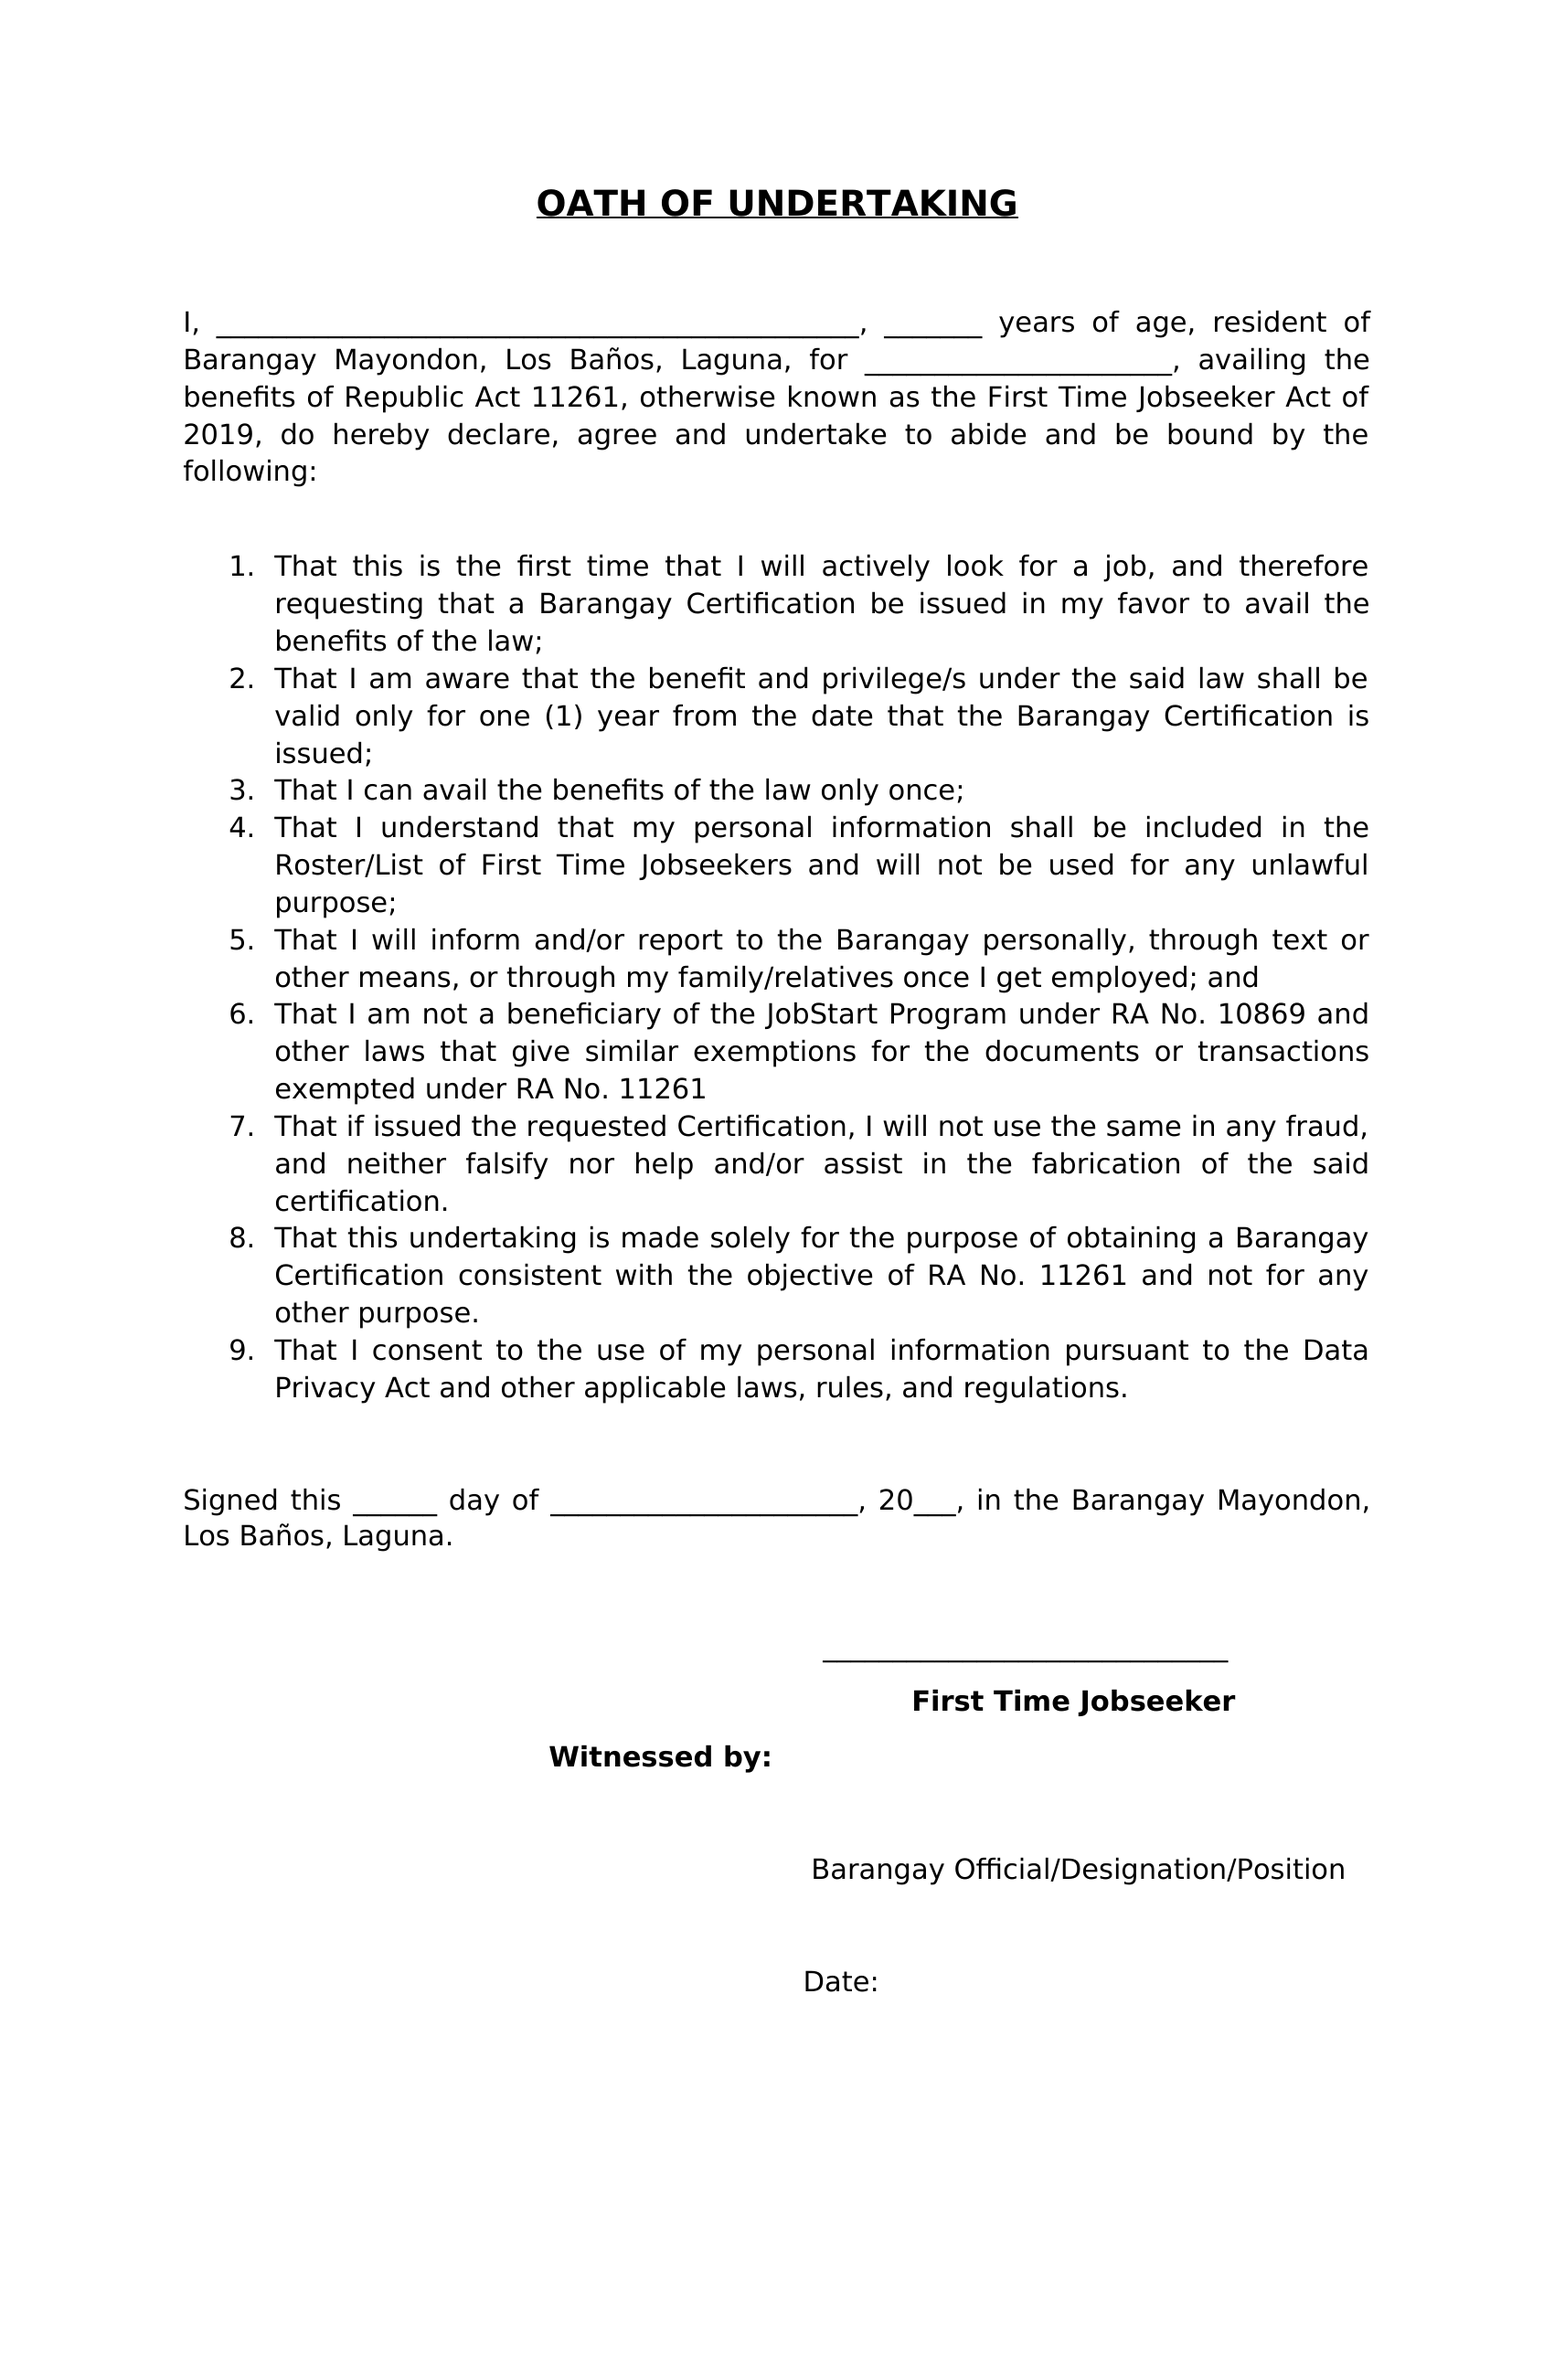
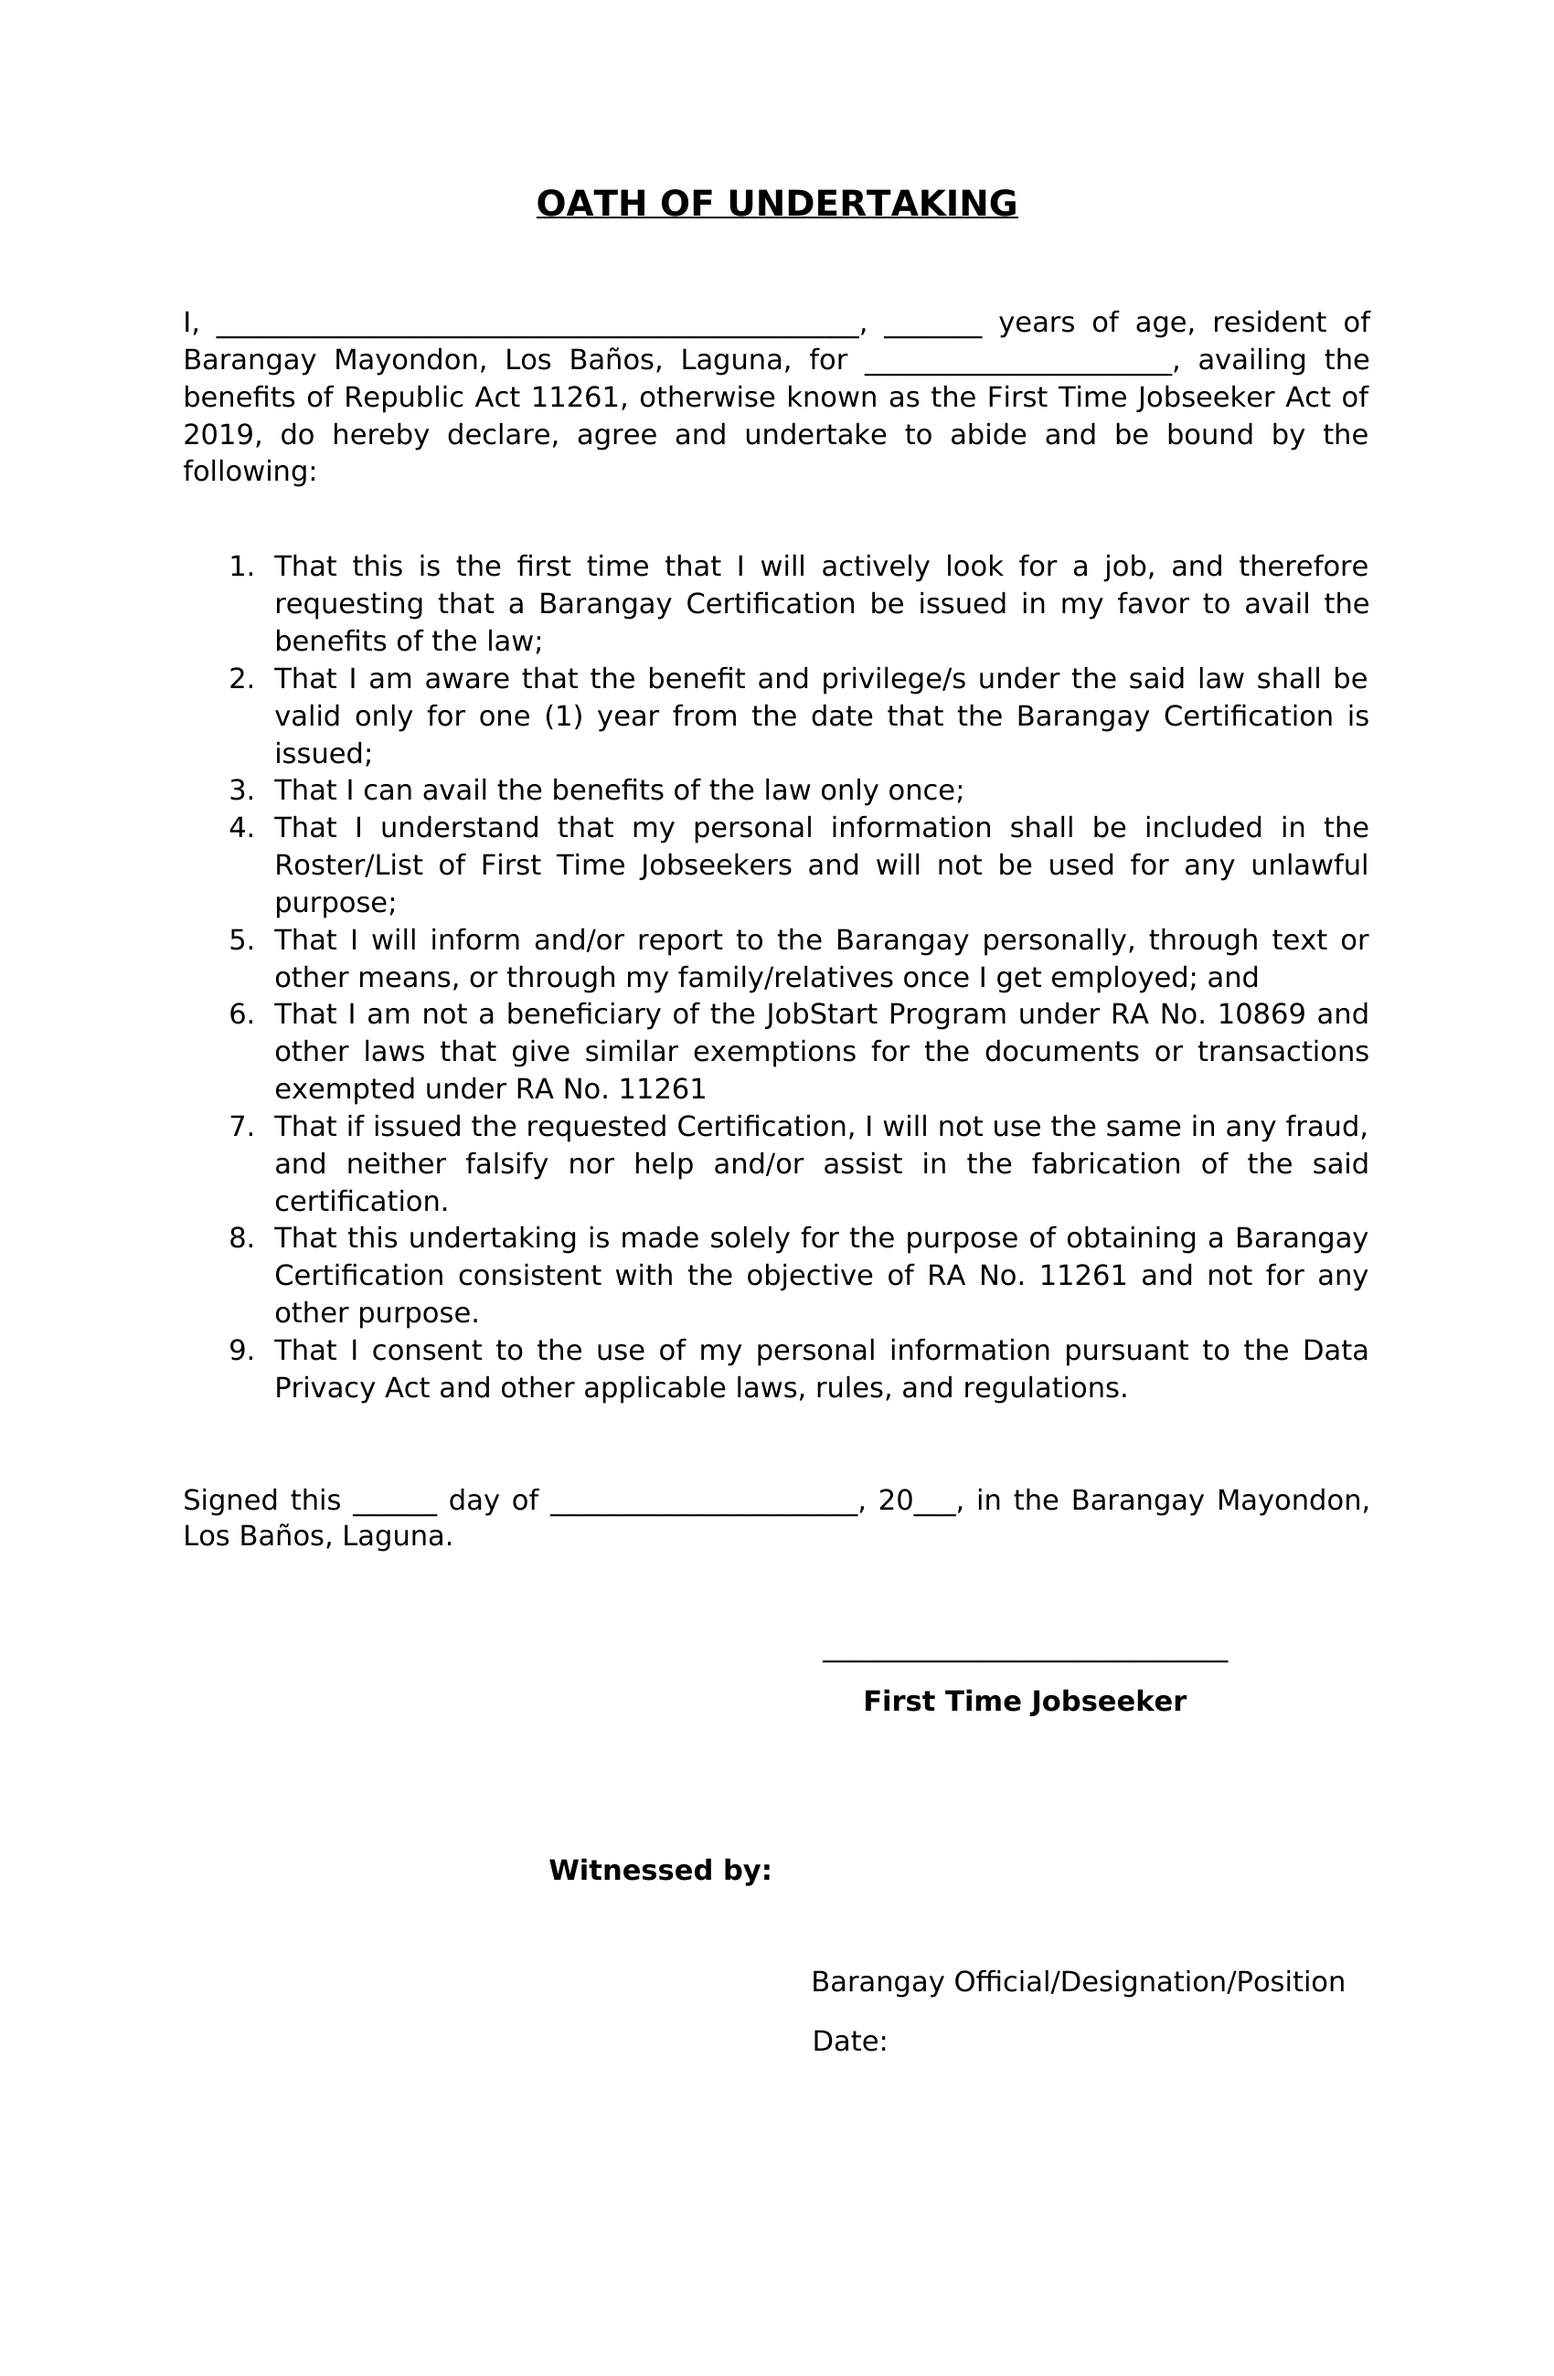
fix(print): Jobseeker Oath Date and witness designation in regular weight

diff --git a/frontend/src/lib/print/templates.ts b/frontend/src/lib/print/templates.ts
@@ -18,7 +18,7 @@ export type PrintFieldBox = {
   align?: "left" | "center"
   size?: number // font size in pt, default 11
   page?: number // 0-based page of a multi-page template, default 0
-  font?: "value" | "label" | "note" | "form" // "form" = Verdana Bold (the First-Time Jobseeker Word file is all Verdana); "label" = Arial Narrow bold; "note" = Arial regular 10 pt (the Addressed-to line); default "value" (Cambria Bold)
+  font?: "value" | "label" | "note" | "form" | "formRegular" // "formRegular" = Verdana regular, for the Jobseeker Oath witness designation and Date (patch 349); "form" = Verdana Bold (the First-Time Jobseeker Word file is all Verdana); "label" = Arial Narrow bold; "note" = Arial regular 10 pt (the Addressed-to line); default "value" (Cambria Bold)
   color?: string // text colour, default black (the loan note of the Clearance is red in the xls)
   prefix?: string // words printed before a non-empty value, for a row the barangay's form leaves unlabelled
 }
@@ -355,7 +355,7 @@ export const printTemplates: Record<PrintTemplateId, PrintTemplate> = {
       {
         key: "witnessName",
         x: 424.6,
-        y: 687.3,
+        y: 732,
         w: 206,
         align: "center",
         size: 11,
@@ -365,13 +365,14 @@ export const printTemplates: Record<PrintTemplateId, PrintTemplate> = {
       {
         key: "witnessDesignation",
         x: 424.6,
-        y: 716,
+        y: 753.5,
         w: 206,
         align: "center",
         size: 11,
         page: 1,
+        font: "formRegular",
       },
-      { key: "date", x: 352, y: 776, w: 148, size: 11, page: 1 },
+      { key: "date", x: 356, y: 799.3, w: 148, size: 11, page: 1, font: "formRegular" },
       // Certification: the witness name sits on the rule under "Witnessed by:" (rule y 679.1, x 310.0-518.4, redrawn in patch 345 to centre on the label, x 414.2); the Date follows the pre-printed "Date:" (rule y 759.2, x 338.8-493.2; the label and Date rows were moved down 14 pt in jobseeker-2.png, patch 343, to make room for the designation line as in the barangay's Word file).
       {
         key: "witnessName",
@@ -414,7 +415,7 @@ export const printTemplates: Record<PrintTemplateId, PrintTemplate> = {
     ] as PrintFieldBox[]).map((field) => ({
       ...field,
       y: Math.round((field.y - JOBSEEKER_LIFT) * 10) / 10,
-      font: "form" as const,
+      font: field.font ?? ("form" as const),
     })),
     // Centres of the two check boxes on the applicant sheet; an X goes only in the chosen one.
     marks: [

diff --git a/frontend/src/components/Issuances/PrintOverlay.tsx b/frontend/src/components/Issuances/PrintOverlay.tsx
@@ -20,7 +20,7 @@ function measureText(text: string, sizePt: number, font?: string): number {
   canvas ??= document.createElement("canvas")
   const ctx = canvas.getContext("2d")
   if (!ctx) return text.length * sizePt * 0.55 // rough fallback
-  ctx.font = `bold ${sizePt}pt ${font === "form" ? FORM_FONT : VALUE_FONT}` // canvas px == CSS px, so convert the result back to pt
+  ctx.font = `${font === "formRegular" ? "" : "bold "}${sizePt}pt ${font === "form" || font === "formRegular" ? FORM_FONT : VALUE_FONT}` // canvas px == CSS px, so convert the result back to pt
   return ctx.measureText(text).width * 0.75
 }
 
@@ -149,8 +149,8 @@ export function PrintOverlay({
                 left: `${item.x}pt`,
                 top: `${item.y}pt`,
                 fontSize: `${item.size}pt`,
-                fontFamily: item.font === "label" ? LABEL_FONT : item.font === "note" ? STAMP_FONT : item.font === "form" ? FORM_FONT : undefined,
-                fontWeight: item.font === "note" ? 400 : undefined,
+                fontFamily: item.font === "label" ? LABEL_FONT : item.font === "note" ? STAMP_FONT : item.font === "form" || item.font === "formRegular" ? FORM_FONT : undefined,
+                fontWeight: item.font === "note" || item.font === "formRegular" ? 400 : undefined,
                 color: item.color,
                 lineHeight: `${DEFAULT_FONT_PT * LINE_HEIGHT_RATIO}pt`,
                 transform:

diff --git a/frontend/src/lib/print/renderSheets.ts b/frontend/src/lib/print/renderSheets.ts
@@ -64,7 +64,7 @@ export async function renderSheets(data: PrintData): Promise<RenderedDocument> {
   const measureContext = measureCanvas.getContext("2d")
   const measure = (text: string, size: number, font?: string) => {
     if (!measureContext) return text.length * size * 0.55
-    measureContext.font = `bold ${size * SCALE}px ${font === "form" ? FORM_FONT : FONT}`
+    measureContext.font = `${font === "formRegular" ? "" : "bold "}${size * SCALE}px ${font === "form" || font === "formRegular" ? FORM_FONT : FONT}`
     return measureContext.measureText(text).width / SCALE
   }
   const laid = layoutOverlay(data, measure)
@@ -143,6 +143,8 @@ export async function renderSheets(data: PrintData): Promise<RenderedDocument> {
       context.font =
         item.font === "note"
           ? `${item.size * SCALE}px ${STAMP_FONT}`
+          : item.font === "formRegular"
+            ? `${item.size * SCALE}px ${FORM_FONT}`
           : `bold ${item.size * SCALE}px ${item.font === "label" ? LABEL_FONT : item.font === "form" ? FORM_FONT : FONT}`
       context.textAlign = item.align === "center" ? "center" : "left"
       context.fillStyle = item.color ?? "#000000"

diff --git a/frontend/src/lib/print/overlayLayout.ts b/frontend/src/lib/print/overlayLayout.ts
@@ -22,7 +22,7 @@ export type OverlayText = {
   y: number
   size: number
   align: "left" | "center"
-  font: "value" | "label" | "note" | "form"
+  font: "value" | "label" | "note" | "form" | "formRegular"
   color?: string
 }
 export type OverlayStamp = {
